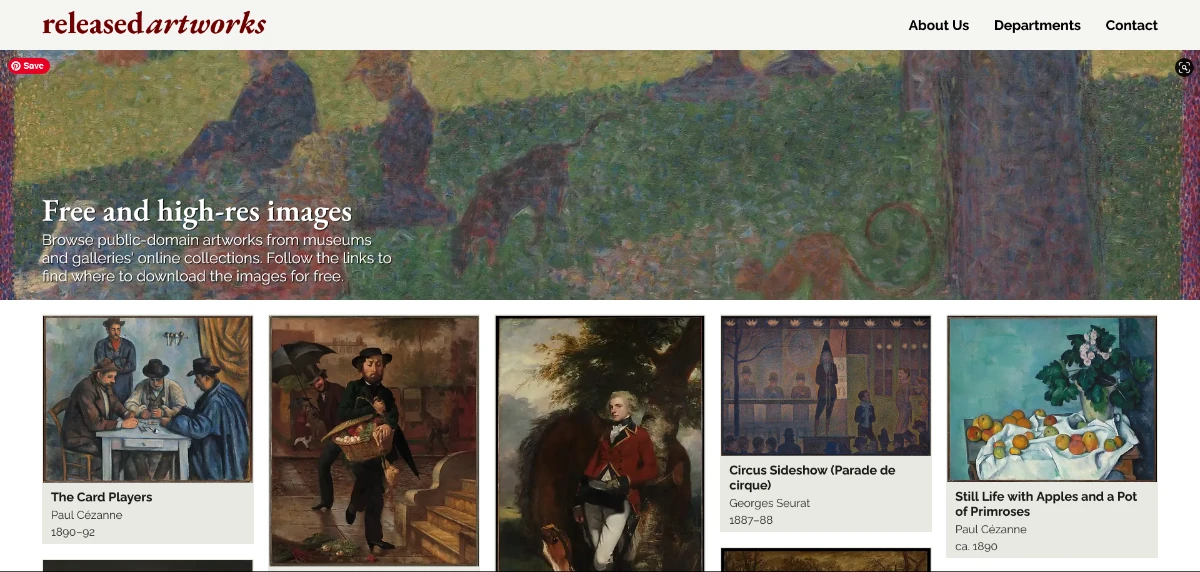
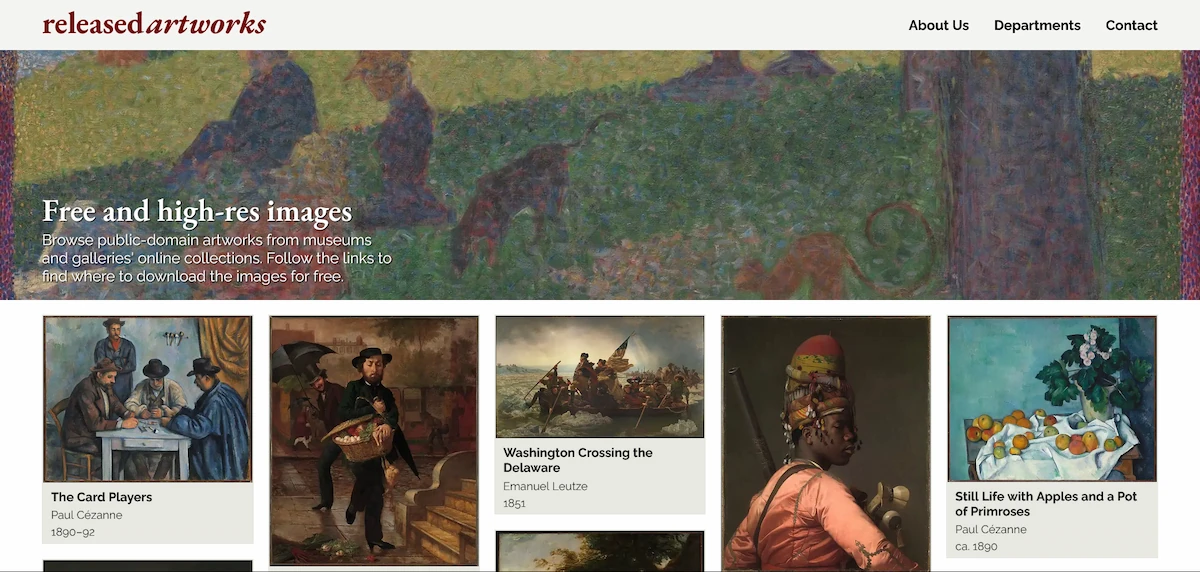
added ImageStack component and displaying Res Art screenshots

diff --git a/src/components/features/card/ProjectCard.jsx b/src/components/features/card/ProjectCard.jsx
@@ -1,47 +1,28 @@
-//
+import ImageStack from "./ImageStack"
 
 function ProjectCard({id, name, url, description, images, techStack}) {
-  const imageArray = Object.entries(images)
-  const totalImages = imageArray.length
-  const fibonacciSpacing = [0,16,32,48,80,128] // fibonacci sequeen multiplied by 16px
 
   return (
-    <article id={id} className="grid grid-cols-1 md:grid-cols-[1fr_3fr] gap-2">
+    <article id={id} className="grid grid-cols-1 md:grid-cols-[1fr_3fr] gap-6">
       {/* Left Column: Timeframe */}
-      <div>
-        <header className="pe-4 overflow-hidden">
-          <a href={url} className="font-light text-base text-text/80">{name}</a>
-        </header>
-      </div>
+      <header>
+        <a href={url} className="font-light text-base text-text/80">{name}</a>
+      </header>
 
       {/* Right Column: Content */}
-      <div>
-
+      <div className="flex flex-col justify-between gap-0">
         {/* Image Stack */}
-        <div className="flex items-center isolate h-38 pl-16 w-fit overflow-hidden">
-          {Object.entries(images).map(([key, value], index) => (
-            <img
-              key={key}
-              src={value}
-              alt={`${name} ${key} screenshot`}
-              style={{
-                left: fibonacciSpacing[index],
-                zIndex: totalImages-index
-              }}
-              className="h-fit w-58 object-cover -ml-16 drop-shadow-lg"
-            />
-          ))}
-        </div>
+        <ImageStack name={name} images={images} />
 
+        {/* Project Description */}
         <p>{description}</p>
 
         {/* Tech Stack */}
-        <ul className="flex flex-wrap gap-0" aria-label="Tech stack used">
+        <ul className="flex flex-wrap gap-4" aria-label="Tech stack used">
           {techStack.map((tech) => (
             <li><span>{tech}</span></li>
           ))}
         </ul>
-
       </div>
     </article>
   )

diff --git a/src/components/features/card/ImageStack.jsx b/src/components/features/card/ImageStack.jsx
@@ -1,8 +1,35 @@
 //
 
-function ImageStack() {
+function ImageStack({name, images}) {
+  const imageArray = Object.entries(images)
+  // const totalImages = imageArray.length
+  const minImageWidth = [19.9, 8, 4, 2, 1]
+  const imageBasis = ['0 0 0','0 1 0','0 2 0','0 3 0','0 4 0']
+ // const imageBasis = ['0 0 319px','0 1 auto','0 2 auto','0 3 auto','0 4 auto']
+
   return (
-    <div>ImageStack</div>
+    <div className="flex justify-start h-38 w-full">
+      {Object.entries(images)
+        .map(([key, value], index) => (
+        // Control amount of each image shown, and
+        // Grey overlay/background
+        // w-[19.9rem]
+        <div
+          key={`${name}-${key}`}
+          style={{
+            flex: imageBasis[index],
+            minWidth: `${minImageWidth[index]}rem`,
+          }}
+          className="drop-shadow-lg min-w-79"
+        >
+          <img
+            src={value}
+            alt={`${name} ${key} screenshot`}
+            className="h-full aspect-2.2/1 object-cover object-right"
+          />
+        </div>
+      ))}
+    </div>
   )
 }
 

diff --git a/README.md b/README.md
@@ -11,11 +11,8 @@ This project is actively under development.
 ## To do
 **Current:**
 - Image Stack:
-  * Create folders for each project (for the images)
-  * Take snapshots of website
-  * Convert to Webp
-  * Upload images for each project and name them based on the *alt*
-  * Create helper function to allocate images.
+  * Create component for Image Stack
+  * Create component for Image Card
 - Header
   * Add social media icons
   * Add social media links
